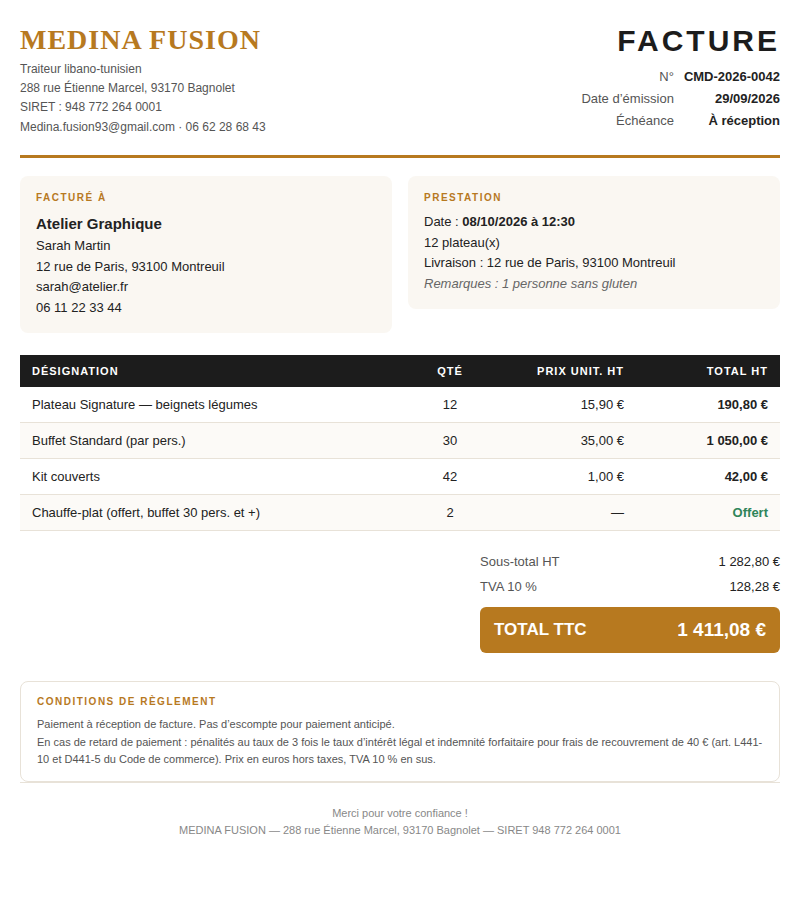
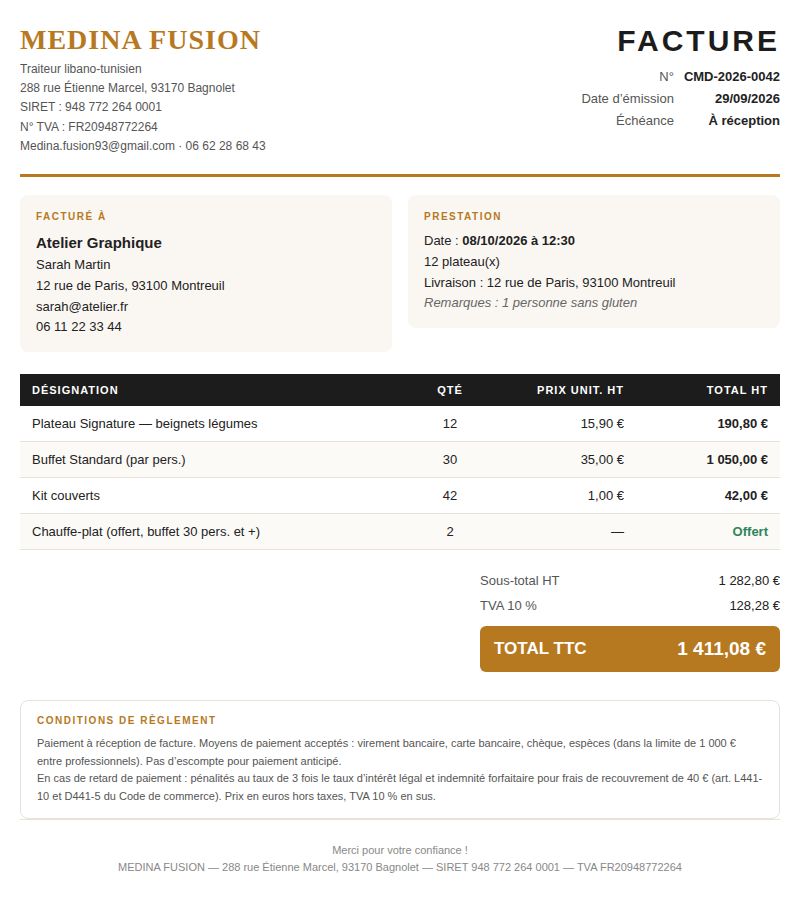
Factures : n° de TVA intracommunautaire et moyens de paiement
- N° TVA FR20948772264 dans l'en-tête et le pied de page (n8n + admin)
- Conditions : virement, carte bancaire, chèque, espèces (limite 1 000 € entre professionnels)

Claude-Session: https://claude.ai/code/session_01DN7xXrDnaSyXsGtF4Swh8h

Changed region(s): [[0.0, 0.1244, 1.0, 0.7467], [0.0312, 0.7467, 0.9688, 0.9644]]

diff --git a/n8n/8-generer-facture-html.js b/n8n/8-generer-facture-html.js
@@ -11,7 +11,7 @@ const SOCIETE = {
   adresse: '288 rue Étienne Marcel',
   ville: '93170 Bagnolet',
   siret: '948 772 264 0001',
-  tvaIntra: '', // ex. FR00948772264 — à renseigner (numéro de TVA intracommunautaire)
+  tvaIntra: 'FR20948772264', // numéro de TVA intracommunautaire
   email: 'Medina.fusion93@gmail.com',
   tel: '06 62 28 68 43',
 };
@@ -134,14 +134,15 @@ ligneTotal('TVA ' + Math.round(TVA * 100) + ' %', eur(montantTVA)) +
 '<table role="presentation" width="100%" cellpadding="0" cellspacing="0" style="border:1px solid #e8e2d8;border-radius:8px"><tr>' +
 '<td style="padding:12px 16px;font-size:11px;line-height:1.6;color:#555">' +
 '<div style="' + etiquette + '">Conditions de règlement</div>' +
-'Paiement à réception de facture. Pas d’escompte pour paiement anticipé.<br>' +
+'Paiement à réception de facture. Moyens de paiement acceptés : virement bancaire, carte bancaire, chèque, espèces ' +
+'(dans la limite de 1 000 € entre professionnels). Pas d’escompte pour paiement anticipé.<br>' +
 'En cas de retard de paiement : pénalités au taux de 3 fois le taux d’intérêt légal et indemnité forfaitaire pour frais de ' +
 'recouvrement de 40 € (art. L441-10 et D441-5 du Code de commerce). Prix en euros hors taxes, TVA 10 % en sus.' +
 '</td></tr></table></td></tr>' +
 
 // 6. Pied de page
 '<tr><td style="padding-top:22px;border-top:1px solid #e8e2d8;text-align:center;font-size:11px;color:#888;line-height:1.6">' +
-'Merci pour votre confiance !<br>' + SOCIETE.nom + ' — ' + SOCIETE.adresse + ', ' + SOCIETE.ville + ' — SIRET ' + SOCIETE.siret +
+'Merci pour votre confiance !<br>' + SOCIETE.nom + ' — ' + SOCIETE.adresse + ', ' + SOCIETE.ville + ' — SIRET ' + SOCIETE.siret + (SOCIETE.tvaIntra ? ' — TVA ' + SOCIETE.tvaIntra : '') +
 '</td></tr>' +
 
 '</table></td></tr></table></body></html>';

diff --git a/src/admin/pages/PrintPage.tsx b/src/admin/pages/PrintPage.tsx
@@ -22,6 +22,8 @@ function EnTete({ titre, numero, echeance }: { titre: string; numero?: string | 
           <br />
           SIRET : {CONTACT.siret}
           <br />
+          N° TVA : {CONTACT.tvaIntra}
+          <br />
           {CONTACT.email} · {CONTACT.whatsappAffiche}
         </p>
       </div>
@@ -149,7 +151,7 @@ function DocumentCommercial({ c, doc }: { c: Commande; doc: 'devis' | 'facture' 
       ) : (
         <section className="pt-4 text-xs text-neutral-600">
           <p>
-            Statut du règlement : <strong>{paiementInfo(c.paiement_statut).label}</strong>. Paiement à réception de facture. Pas d’escompte pour paiement anticipé.
+            Statut du règlement : <strong>{paiementInfo(c.paiement_statut).label}</strong>. Paiement à réception de facture par virement, carte bancaire, chèque ou espèces (espèces limitées à 1 000 € entre professionnels). Pas d’escompte pour paiement anticipé.
           </p>
           <p>
             En cas de retard de paiement : pénalités au taux de 3 fois le taux d’intérêt légal et indemnité forfaitaire pour
@@ -158,7 +160,7 @@ function DocumentCommercial({ c, doc }: { c: Commande; doc: 'devis' | 'facture' 
         </section>
       )}
       <footer className="border-t border-neutral-200 pt-3 text-center text-[11px] text-neutral-500">
-        Merci pour votre confiance · MEDINA FUSION — {CONTACT.adresse} — SIRET {CONTACT.siret}
+        Merci pour votre confiance · MEDINA FUSION — {CONTACT.adresse} — SIRET {CONTACT.siret} — TVA {CONTACT.tvaIntra}
       </footer>
     </article>
   );

diff --git a/src/data/config.ts b/src/data/config.ts
@@ -9,6 +9,7 @@ export const CONTACT = {
   whatsappIntl: '33662286843',
   adresse: '288 rue Étienne Marcel, 93170 Bagnolet',
   siret: '948 772 264 0001',
+  tvaIntra: 'FR20948772264',
   googleAvisUrl: 'https://share.google/HVEHFzjLZ2GRYmoaY',
   googleNote: '4,8',
   googleAvis: '700+',
